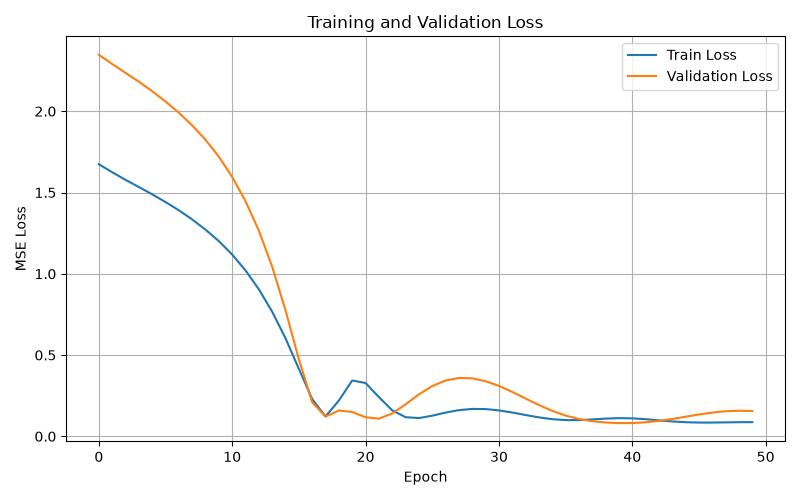
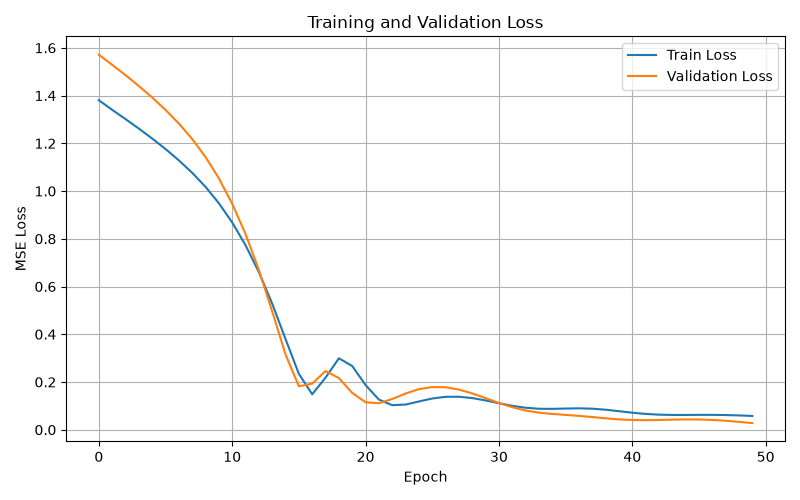
add Pipeline B Stage 1 - MobileNetV3 grader

diff --git a/pipeline_b/model_stage1.py b/pipeline_b/model_stage1.py
@@ -1,0 +1,225 @@
+import random
+from typing import List, Tuple, Union
+
+import numpy as np
+import torch
+import torch.nn as nn
+import torchvision.transforms as T
+import torchvision.models as models
+from PIL import Image
+
+
+class VideoFrameSampler:
+    """Sample and preprocess frames from a video or list of images.
+
+    Usage:
+        sampler = VideoFrameSampler(source)
+        frames_tensor = sampler.sample_frames()  # shape (10,3,224,224)
+
+    Args:
+        source: path to a video file (str) or a list of image file paths or PIL Images
+        num_samples: number of frames to sample (default 10)
+    """
+
+    def __init__(self, source: Union[str, List[Union[str, Image.Image]]], num_samples: int = 10):
+        self.source = source
+        self.num_samples = num_samples
+        # transform: resize to 224x224 and convert to tensor (C,H,W)
+        self.transform = T.Compose([
+            T.Resize((224, 224)),
+            T.ConvertImageDtype(torch.float),
+        ])
+
+    def _load_frames_from_list(self, frames_list: List[Union[str, Image.Image]]):
+        imgs = []
+        for f in frames_list:
+            if isinstance(f, Image.Image):
+                img = f.convert("RGB")
+            else:
+                img = Image.open(f).convert("RGB")
+            imgs.append(img)
+        return imgs
+
+    def _load_frames_from_video(self, video_path: str):
+        """Try to read video frames using torchvision; requires ffmpeg/av support."""
+        try:
+            from torchvision.io import read_video
+
+            video, _, _ = read_video(video_path, pts_unit="sec")
+            # video: (num_frames, H, W, C) uint8 tensor
+            frames = [Image.fromarray(frame.numpy()) for frame in video]
+            return frames
+        except Exception:
+            raise RuntimeError(
+                "Reading video failed. Provide a list of image frames or ensure torchvision video support is installed."
+            )
+
+    def sample_frames(self) -> torch.Tensor:
+        """Return a tensor of sampled frames with shape (num_samples, 3, 224, 224)."""
+        # Load list of PIL Images
+        if isinstance(self.source, (list, tuple)):
+            imgs = self._load_frames_from_list(list(self.source))
+        elif isinstance(self.source, str):
+            imgs = self._load_frames_from_video(self.source)
+        else:
+            raise ValueError("Unsupported source type for VideoFrameSampler")
+
+        if len(imgs) == 0:
+            raise ValueError("No frames found in source")
+
+        # Randomly sample frames (with replacement if fewer than needed)
+        if len(imgs) >= self.num_samples:
+            chosen = random.sample(imgs, self.num_samples)
+        else:
+            chosen = [random.choice(imgs) for _ in range(self.num_samples)]
+
+        # Apply transforms and stack into tensor
+        tensors = []
+        to_tensor = T.ToTensor()
+        for img in chosen:
+            img = img.resize((224, 224))
+            t = to_tensor(img)  # (3, H, W) float in [0,1]
+            tensors.append(t)
+
+        frames_tensor = torch.stack(tensors, dim=0)  # (num_samples, 3, 224, 224)
+        return frames_tensor
+
+
+class Stage1Grader(nn.Module):
+    """Grader model using MobileNetV3-Large backbone.
+
+    Loads a pretrained MobileNetV3-Large from torchvision and replaces the
+    final classifier to predict 3 quality grades: A, B, C.
+    """
+
+    def __init__(self, num_classes: int = 3):
+        super().__init__()
+        # Load pretrained MobileNetV3-Large
+        try:
+            self.backbone = models.mobilenet_v3_large(pretrained=True)
+        except TypeError:
+            # For newer torchvision versions use weights enum
+            self.backbone = models.mobilenet_v3_large(weights=models.MobileNet_V3_Large_Weights.IMAGENET1K_V1)
+
+        # Replace classifier head
+        if hasattr(self.backbone, "classifier") and isinstance(self.backbone.classifier, nn.Sequential):
+            in_features = self.backbone.classifier[-1].in_features
+            self.backbone.classifier[-1] = nn.Linear(in_features, num_classes)
+        else:
+            # Fallback: replace last layer if structure differs
+            self.backbone.classifier = nn.Sequential(nn.Linear(1280, num_classes))
+
+        self.softmax = nn.Softmax(dim=1)
+
+    def forward(self, x: torch.Tensor) -> torch.Tensor:
+        """Forward pass.
+
+        Args:
+            x: (batch, 3, 224, 224)
+
+        Returns:
+            probs: (batch, 3) class probabilities per frame
+        """
+        logits = self.backbone(x)
+        probs = self.softmax(logits)
+        return probs
+
+
+def grade_batch(model: Stage1Grader, frames_tensor: torch.Tensor) -> Tuple[str, float, bool]:
+    """Grade a batch of frames and return provisional grade, confidence, and low_confidence flag.
+
+    Args:
+        model: Stage1Grader instance
+        frames_tensor: (num_frames, 3, 224, 224)
+
+    Returns:
+        provisional_grade (str): 'A', 'B', or 'C'
+        confidence (float): probability for provisional grade (mean across frames)
+        low_confidence (bool): True if entropy > 0.8
+    """
+    model.eval()
+    device = next(model.parameters()).device
+    frames = frames_tensor.to(device)
+
+    with torch.no_grad():
+        probs = model(frames)  # (num_frames, 3)
+
+    # Average probabilities across frames
+    mean_probs = probs.mean(dim=0).cpu().numpy()  # (3,)
+
+    # Map index to grade
+    idx_to_grade = {0: "A", 1: "B", 2: "C"}
+    best_idx = int(np.argmax(mean_probs))
+    provisional_grade = idx_to_grade[best_idx]
+    confidence = float(mean_probs[best_idx])
+
+    # Compute entropy for the mean distribution
+    eps = 1e-9
+    entropy = -float(np.sum(mean_probs * np.log(mean_probs + eps)))
+    low_confidence = entropy > 0.8
+
+    return provisional_grade, confidence, low_confidence
+
+
+def get_price_premium(grade: str) -> float:
+    """Return price premium percentage for a given grade.
+
+    Grade A: +15%, B: 0%, C: -20%
+    """
+    grade = grade.upper()
+    if grade == "A":
+        return 0.15
+    if grade == "B":
+        return 0.0
+    if grade == "C":
+        return -0.20
+    raise ValueError("Unknown grade: should be 'A', 'B' or 'C'")
+
+
+class FarmerTrustScore:
+    """Track farmer trust by comparing provisional vs verified grades.
+
+    Stores history as a list of tuples (provisional, verified).
+    get_score returns fraction of matches. is_reliable returns True if score>0.7.
+    """
+
+    def __init__(self):
+        self.history: List[Tuple[str, str]] = []
+
+    def update(self, provisional: str, verified: str):
+        """Add a new (provisional, verified) pair to history."""
+        self.history.append((provisional.upper(), verified.upper()))
+
+    def get_score(self) -> float:
+        """Return fraction of matches (provisional == verified)."""
+        if not self.history:
+            return 0.0
+        matches = sum(1 for p, v in self.history if p == v)
+        return matches / len(self.history)
+
+    def is_reliable(self) -> bool:
+        """Return True if trust score is above 0.7."""
+        return self.get_score() > 0.7
+
+
+if __name__ == "__main__":
+    # Quick test using random fake frames
+    # Create random frames tensor: (10,3,224,224)
+    fake_frames = torch.rand(10, 3, 224, 224)
+
+    # Initialize model and move to cpu
+    grader = Stage1Grader()
+    grader.eval()
+
+    # Grade the fake frames
+    grade, conf, low_conf = grade_batch(grader, fake_frames)
+    print(f"Provisional grade: {grade}, confidence: {conf:.3f}, low_confidence: {low_conf}")
+
+    # Price premium
+    premium = get_price_premium(grade)
+    print(f"Price premium for grade {grade}: {premium*100:.1f}%")
+
+    # Farmer trust score demo
+    fts = FarmerTrustScore()
+    fts.update(grade, grade)  # pretend verified equals provisional
+    print("Farmer trust score:", fts.get_score(), "Reliable?", fts.is_reliable())